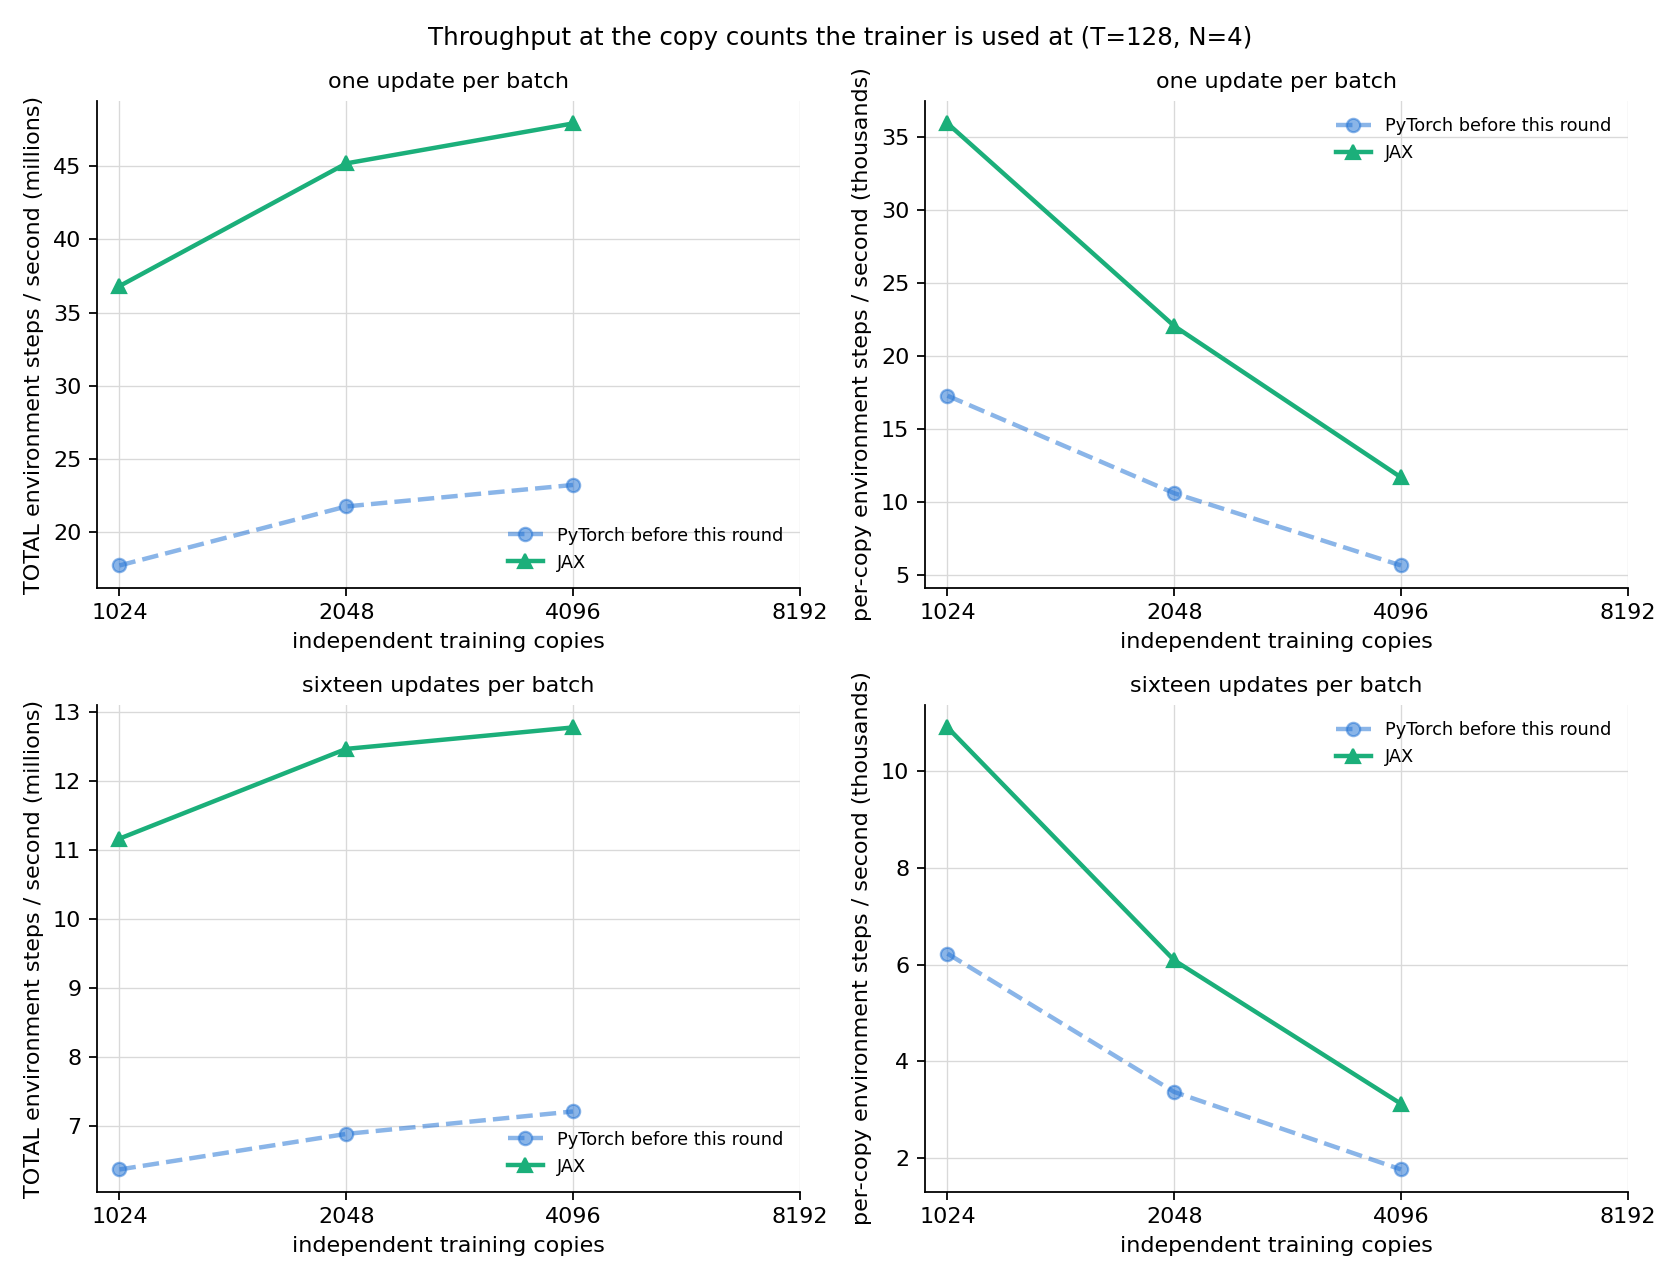
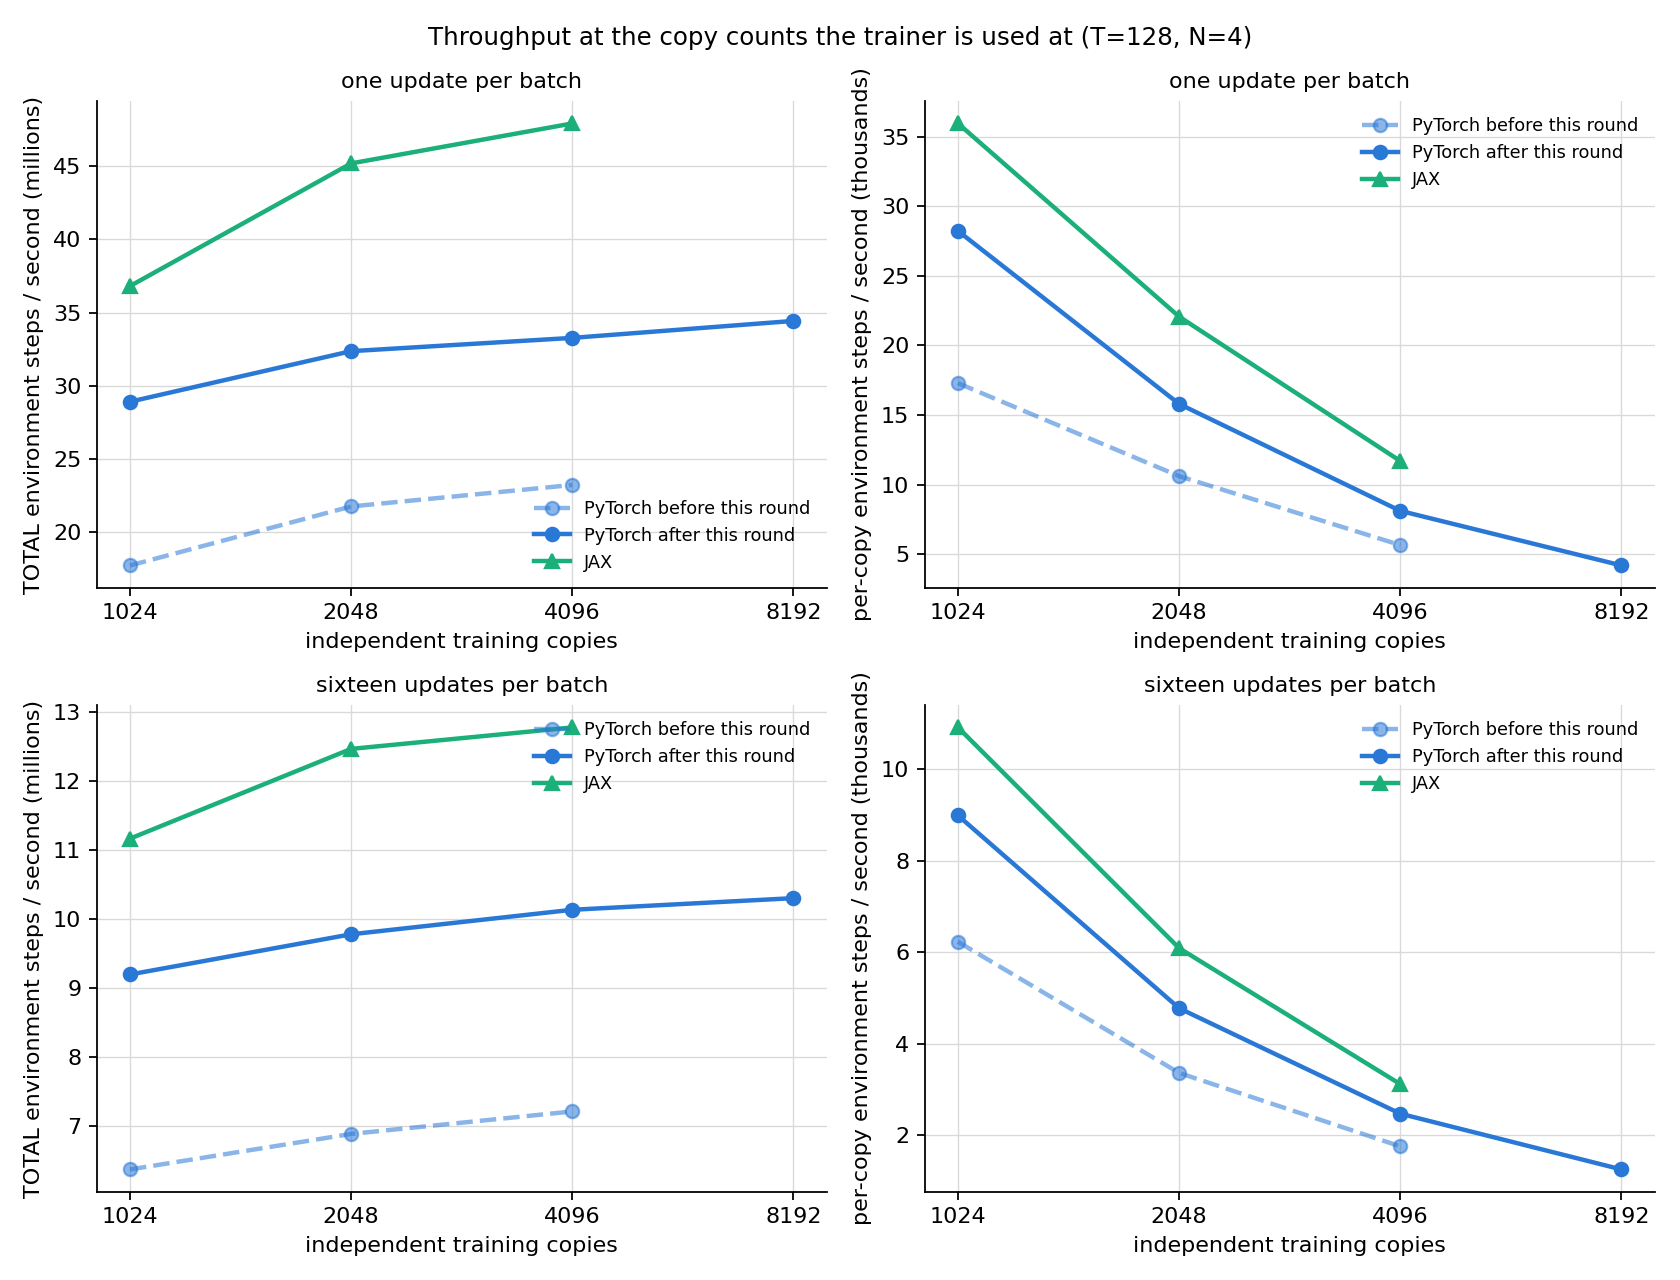
report: the changed trainer's curves at 1,024 to 8,192 copies — 29 to 39 percent faster, and the distance to JAX down from about two times to 1.2-1.4

diff --git a/09_parallelization/report/2026-08-15-pointmaze-gpu-parallelization/report.md b/09_parallelization/report/2026-08-15-pointmaze-gpu-parallelization/report.md
@@ -42,7 +42,7 @@ the earlier sections' conclusions do not all carry over.
 | [Which implementation to use](#which-implementation-to-use) | 2026-08-15 15:46 PT | 2026-08-15 17:54 PT |
 | [Feature parity between the two trainers](#feature-parity-between-the-two-trainers) | 2026-08-15 15:46 PT | 2026-08-15 15:46 PT |
 | [Round four — closing the distance between the two trainers](#round-four-closing-the-distance-between-the-two-trainers) | 2026-08-15 15:57 PT | 2026-08-15 15:57 PT |
-| [Training a thousand to four thousand copies at once](#training-a-thousand-to-four-thousand-copies-at-once) | 2026-08-15 17:02 PT | 2026-08-15 18:03 PT |
+| [Training a thousand to four thousand copies at once](#training-a-thousand-to-four-thousand-copies-at-once) | 2026-08-15 17:02 PT | 2026-08-15 18:25 PT |
 
 *Times are when a section's text first appeared in this document and when it last changed, taken from the document's version history. A section whose numbers were re-measured shows a later change time. All times are Pacific (PT); the machines that produced them run on Eastern Time and the values are converted for display.*
 
@@ -844,7 +844,7 @@ optimisation that removes bytes moved helps at 4,096 and does nothing at 128. On
 the previous round on the strength of the 8-to-128 measurements turns out to be a loss at 1,024
 and above, and is recorded below.
 
-**The two answers in one line.** At 4,096 copies with one update per batch, the PyTorch trainer takes 90 milliseconds per iteration against 44 for the JAX trainer. The distance is not made of any one slow program — each of PyTorch's runs at 72 to 100 percent of the rate a plain copy of memory reaches — but of how many intermediate results have to be written to memory and read back between them.
+**The two answers in one line.** At 4,096 copies with one update per batch, the PyTorch trainer takes 90 milliseconds per iteration as this round found it and 63 after this round's changes, against 44 for the JAX trainer. The distance is not made of any one slow program — each of PyTorch's runs at 72 to 100 percent of the rate a plain copy of memory reaches — but of how many intermediate results have to be written to memory and read back between them.
 
 ### Where an iteration's time goes as the copy count grows
 
@@ -878,28 +878,36 @@ than the last word on that trainer.
 | implementation | copies | milliseconds<br>per iteration | total steps<br>per second<br>(millions) | steps per second<br>per copy<br>(thousands) | hours per million<br>steps per copy | peak<br>memory (GB) |
 |---|---|---|---|---|---|---|
 | PyTorch before | 1024 | 29.6 | 17.71 | 17.3 | 0.016 | 3.8 |
+| PyTorch after | 1024 | 18.1 | <u>28.90</u> | 28.2 | 0.010 | 3.8 |
 | JAX | 1024 | 14.2 | **36.81** | 35.9 | 0.008 | 3.4 |
 | PyTorch before | 2048 | 48.2 | 21.74 | 10.6 | 0.026 | 7.5 |
+| PyTorch after | 2048 | 32.4 | <u>32.36</u> | 15.8 | 0.018 | 7.5 |
 | JAX | 2048 | 23.2 | **45.20** | 22.1 | 0.013 | 6.8 |
 | PyTorch before | 4096 | 90.4 | 23.21 | 5.7 | 0.049 | 14.8 |
+| PyTorch after | 4096 | 63.0 | <u>33.27</u> | 8.1 | 0.034 | 14.8 |
 | JAX | 4096 | 43.8 | **47.93** | 11.7 | 0.024 | 13.4 |
+| PyTorch after | 8192 | 121.8 | 34.43 | 4.2 | 0.066 | 29.5 |
 
 **Sixteen updates per batch.**
 
 | implementation | copies | milliseconds<br>per iteration | total steps<br>per second<br>(millions) | steps per second<br>per copy<br>(thousands) | hours per million<br>steps per copy | peak<br>memory (GB) |
 |---|---|---|---|---|---|---|
 | PyTorch before | 1024 | 82.2 | 6.38 | 6.2 | 0.045 | 3.5 |
+| PyTorch after | 1024 | 57.0 | <u>9.20</u> | 9.0 | 0.031 | 3.5 |
 | JAX | 1024 | 46.9 | **11.17** | 10.9 | 0.025 | 2.4 |
 | PyTorch before | 2048 | 152.2 | 6.89 | 3.4 | 0.083 | 6.9 |
+| PyTorch after | 2048 | 107.2 | <u>9.78</u> | 4.8 | 0.058 | 6.9 |
 | JAX | 2048 | 84.1 | **12.47** | 6.1 | 0.046 | 4.6 |
 | PyTorch before | 4096 | 290.6 | 7.22 | 1.8 | 0.158 | 13.8 |
+| PyTorch after | 4096 | 206.9 | <u>10.14</u> | 2.5 | 0.112 | 13.8 |
 | JAX | 4096 | 164.1 | **12.78** | 3.1 | 0.089 | 8.8 |
+| PyTorch after | 8192 | 407.0 | 10.31 | 1.3 | 0.221 | 27.4 |
 
 *Best aggregate rate per copy count in bold, second best underlined. The aggregate rate rises with the copy count while the rate each individual copy gets falls, so the hours column is the one that says how long a single training run actually takes. 8,192 copies is past the range this section is about and was measured only for the changed PyTorch build, to see whether the card still holds it.*
 
 ![Throughput at 1,024 to 4,096 copies](figures/large_scale.png)
 
-The two rate columns move in opposite directions and the choice between copy counts depends on which one matters. Going from 1,024 copies to 4,096 with one update per batch raises the aggregate rate from 17.7 to 23.2 million environment steps per second, a factor of 1.31, while the rate an individual copy gets falls from 17.3 to 5.7 thousand per second, a factor of 3.1. In time: one copy reaches ten million environment steps, the budget this project's training campaign used, in 10 minutes at 1,024 copies and 29 minutes at 4,096. Four thousand copies is the right setting when the science needs many independent runs and the wall time of any one of them does not matter; a thousand is the right setting when it does.
+The two rate columns move in opposite directions and the choice between copy counts depends on which one matters. Going from 1,024 copies to 4,096 with one update per batch raises the aggregate rate from 28.9 to 33.3 million environment steps per second, a factor of 1.15, while the rate an individual copy gets falls from 28.2 to 8.1 thousand per second, a factor of 3.5. In time: one copy reaches ten million environment steps, the budget this project's training campaign used, in 6 minutes at 1,024 copies and 21 minutes at 4,096. Four thousand copies is the right setting when the science needs many independent runs and the wall time of any one of them does not matter; a thousand is the right setting when it does.
 
 ### What limits the PyTorch trainer at 4,096 copies
 
@@ -972,12 +980,12 @@ A positive number means the previous round made it slower. The 512-copy loss was
 
 | update convention | copies | PyTorch | JAX | ratio |
 |---|---|---|---|---|
-| one update per batch | 1024 | 29.6 ms | 14.2 ms | 2.08 |
-| one update per batch | 2048 | 48.2 ms | 23.2 ms | 2.08 |
-| one update per batch | 4096 | 90.4 ms | 43.8 ms | 2.06 |
-| sixteen updates per batch | 1024 | 82.2 ms | 46.9 ms | 1.75 |
-| sixteen updates per batch | 2048 | 152.2 ms | 84.1 ms | 1.81 |
-| sixteen updates per batch | 4096 | 290.6 ms | 164.1 ms | 1.77 |
+| one update per batch | 1024 | 18.1 ms | 14.2 ms | 1.27 |
+| one update per batch | 2048 | 32.4 ms | 23.2 ms | 1.40 |
+| one update per batch | 4096 | 63.0 ms | 43.8 ms | 1.44 |
+| sixteen updates per batch | 1024 | 57.0 ms | 46.9 ms | 1.21 |
+| sixteen updates per batch | 2048 | 107.2 ms | 84.1 ms | 1.27 |
+| sixteen updates per batch | 4096 | 206.9 ms | 164.1 ms | 1.26 |
 
 The reason is not that any PyTorch program is slow. The table in the previous subsection times
 each of them on its real shape and finds them at 72 to 100 percent of the rate a plain copy
